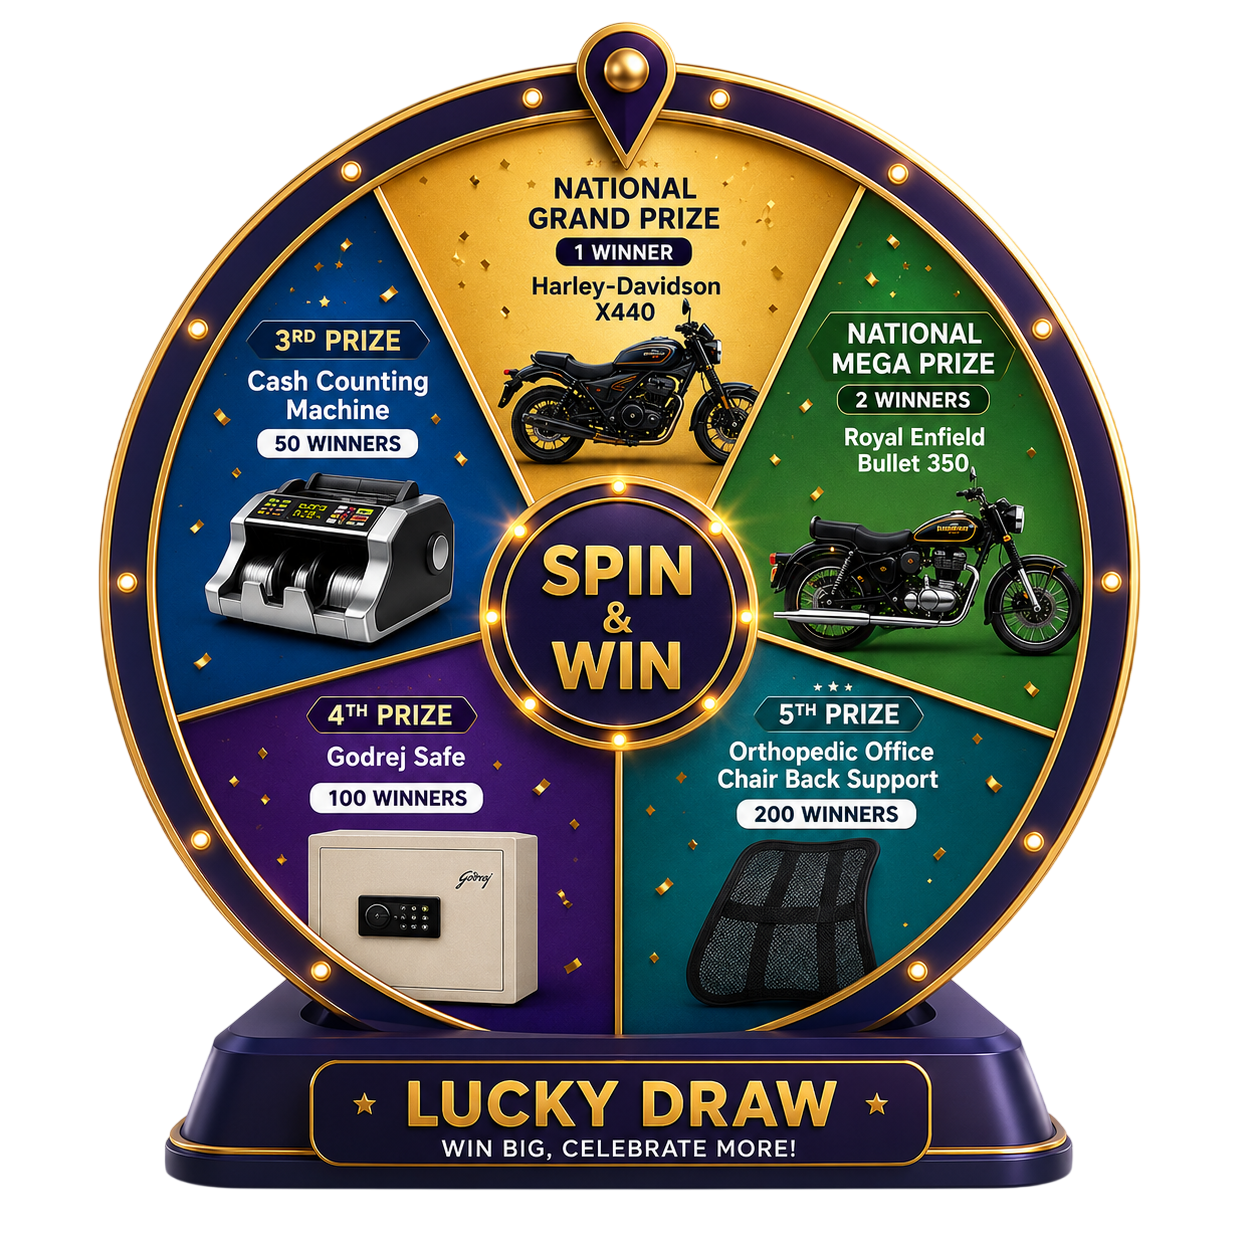
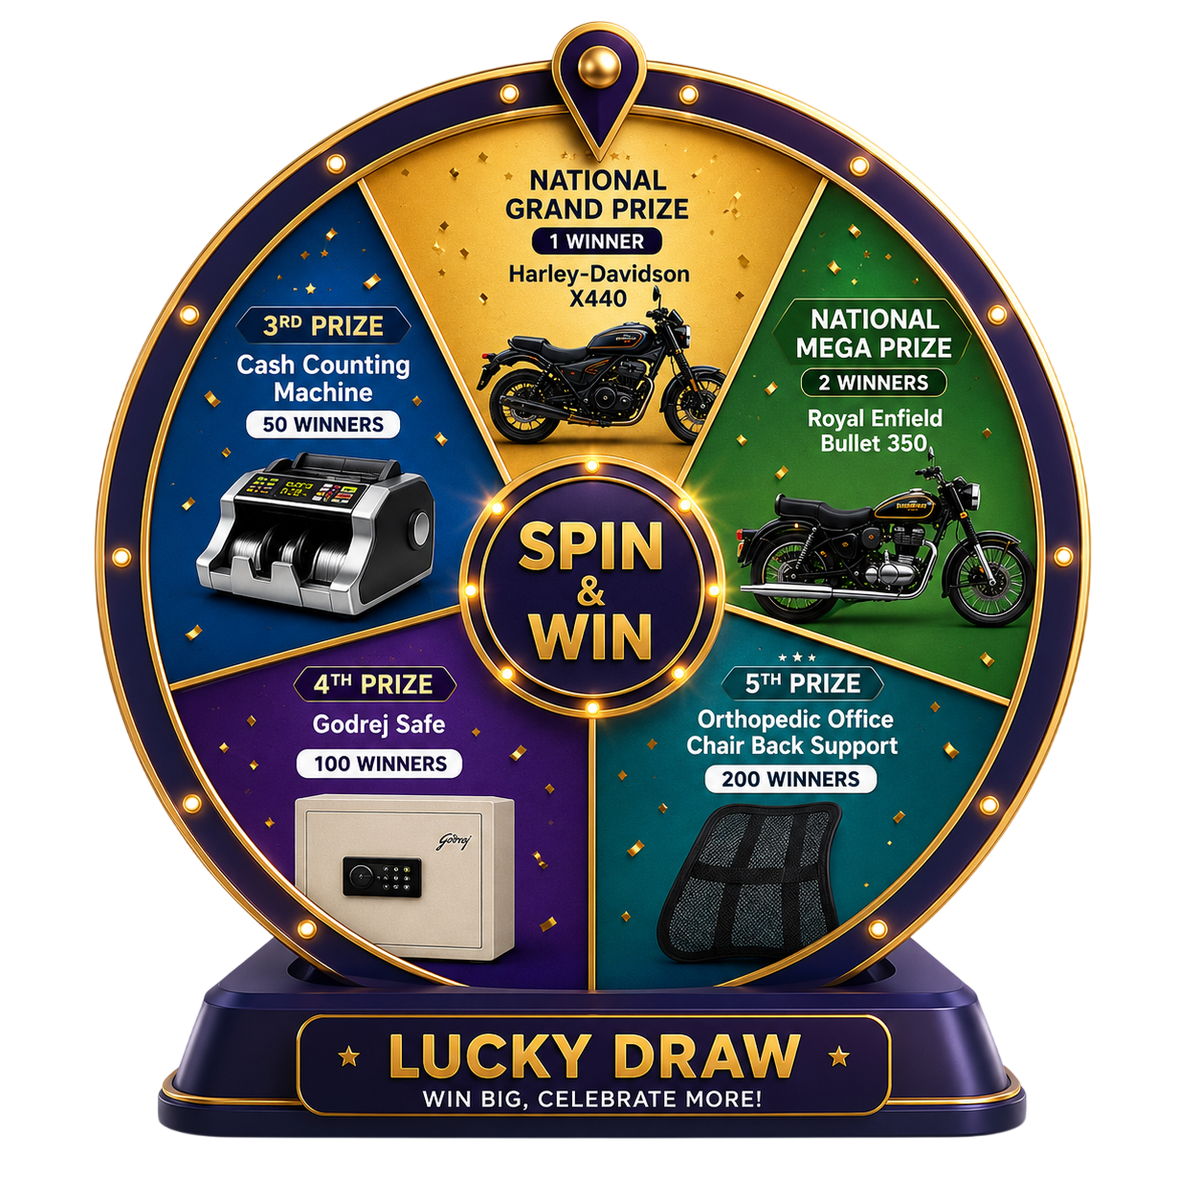
Add files via upload

diff --git a/js/audio.js b/js/audio.js
@@ -295,8 +295,8 @@ window.LuckyAudio = (function () {
   /* ══════════════ CONTROL WIDGET (bottom-right) ══════════════ */
   var css = document.createElement('style');
   css.textContent =
-    '#ld-audio-ctl{position:fixed;right:20px;bottom:20px;z-index:900;display:flex;flex-direction:row;align-items:center;gap:12px;' +
-      'padding:10px 16px;border-radius:30px;' +
+    '#ld-audio-ctl{position:fixed;right:20px;bottom:20px;z-index:900;display:flex;flex-direction:column;align-items:center;gap:10px;' +
+      'padding:14px 10px;border-radius:40px;' +
       'background:linear-gradient(160deg,rgba(34,40,86,.88),rgba(17,24,56,.94));' +
       'border:1.5px solid rgba(255,215,0,.45);backdrop-filter:blur(14px);' +
       'box-shadow:0 6px 24px rgba(0,0,0,.6),0 0 18px rgba(255,215,0,.18),inset 0 1px 0 rgba(255,255,255,.15);}' +
@@ -305,8 +305,10 @@ window.LuckyAudio = (function () {
       'box-shadow:0 3px 12px rgba(255,215,0,.5);transition:transform .2s,box-shadow .2s;}' +
     '#ld-play:hover{transform:scale(1.1);box-shadow:0 4px 18px rgba(255,215,0,.8);}' +
     '#ld-play svg{width:16px;height:16px;fill:#020A1A;}' +
+    '#ld-vol-wrap{position:relative;width:20px;height:90px;display:flex;justify-content:center;align-items:center;}' +
     '#ld-vol{-webkit-appearance:none;appearance:none;width:80px;height:6px;border-radius:4px;outline:none;cursor:pointer;' +
-      'background:linear-gradient(90deg,#FFD700 var(--p,60%),rgba(255,215,0,.2) var(--p,60%));}' +
+      'background:linear-gradient(90deg,#FFD700 var(--p,60%),rgba(255,215,0,.2) var(--p,60%));' +
+      'transform:rotate(-90deg);position:absolute;}' +
     '#ld-vol::-webkit-slider-thumb{-webkit-appearance:none;width:15px;height:15px;border-radius:50%;' +
       'background:radial-gradient(circle at 35% 35%,#FFF3C0,#FFD700 45%,#B8860B);' +
       'box-shadow:0 0 8px rgba(255,210,0,.8);cursor:pointer;}' +
@@ -314,7 +316,7 @@ window.LuckyAudio = (function () {
       'background:radial-gradient(circle at 35% 35%,#FFF3C0,#FFD700 45%,#B8860B);box-shadow:0 0 8px rgba(255,210,0,.8);cursor:pointer;}' +
     '#ld-audio-ctl .ld-ico{display:flex;align-items:center;justify-content:center;width:18px;height:18px;}' +
     '#ld-audio-ctl .ld-ico svg{width:18px;height:18px;fill:rgba(255,215,0,0.9);filter:drop-shadow(0 0 4px rgba(255,215,0,0.5));}' +
-    '@media (max-width:560px){#ld-audio-ctl{right:8px;bottom:8px;padding:8px 12px;}#ld-vol{width:60px;}}';
+    '@media (max-width:560px){#ld-audio-ctl{right:8px;bottom:8px;padding:12px 8px;}#ld-vol-wrap{height:70px;}#ld-vol{width:60px;}}';
   document.head.appendChild(css);
 
   var SVG_PLAY  = '<svg viewBox="0 0 24 24"><path d="M8 5v14l11-7z"/></svg>';
@@ -326,9 +328,9 @@ window.LuckyAudio = (function () {
   wrap.id = 'ld-audio-ctl';
   wrap.innerHTML =
     '<button id="ld-play" title="Play / pause music"></button>' +
-    '<div class="ld-ico" title="Volume Down">' + SVG_VOL_DOWN + '</div>' +
-    '<input id="ld-vol" type="range" min="0" max="100" step="1" title="Volume">' +
-    '<div class="ld-ico" title="Volume Up">' + SVG_VOL_UP + '</div>';
+    '<div class="ld-ico" title="Volume Up" style="margin-top:4px;">' + SVG_VOL_UP + '</div>' +
+    '<div id="ld-vol-wrap"><input id="ld-vol" type="range" min="0" max="100" step="1" title="Volume"></div>' +
+    '<div class="ld-ico" title="Volume Down" style="margin-bottom:4px;">' + SVG_VOL_DOWN + '</div>';
   function mount() { document.body.appendChild(wrap); init(); }
   if (document.body) mount(); else document.addEventListener('DOMContentLoaded', mount);
 

diff --git a/index.html b/index.html
@@ -498,6 +498,11 @@ html, body {
 }
 
 </style>
+<!-- PRELOAD CRITICAL ASSETS FOR PERFORMANCE -->
+<link rel="preload" href="assets/audio/bg_music.mp3" as="audio">
+<link rel="preload" href="assets/images/main_banner.png" as="image">
+<link rel="preload" href="assets/images/Spin_this_wheel_transparent.gif" as="image">
+<link rel="preload" href="assets/images/granulam_podium.png" as="image">
 </head>
 <body>
 
@@ -657,7 +662,7 @@ html, body {
   </div><!-- end .content -->
 </section>
 
-<script src="js/audio.js?v=2"></script>
+<script src="js/audio.js?v=3"></script>
 <script>
 (function(){
   const layer = document.getElementById('fx');

diff --git a/prize.html b/prize.html
@@ -168,6 +168,9 @@ html,body{width:100%;height:100%;overflow:hidden;font-family:'Nunito',sans-serif
 .nav-btn:hover:not(:disabled){background:rgba(212,160,23,.15);border-color:rgba(212,160,23,.65);color:var(--gold-lt);transform:translateY(-2px) scale(1.05);box-shadow:0 6px 20px rgba(212,160,23,.22);}
 .nav-btn:disabled{opacity:.2;cursor:not-allowed;}
 </style>
+<!-- PRELOAD CRITICAL ASSETS FOR PERFORMANCE -->
+<link rel="preload" href="assets/audio/bg_music.mp3" as="audio">
+<link rel="preload" href="assets/audio/applause.mp3" as="audio">
 </head>
 <body>
 
@@ -254,7 +257,7 @@ html,body{width:100%;height:100%;overflow:hidden;font-family:'Nunito',sans-serif
   </div>
 </div>
 
-<script src="js/audio.js?v=2"></script>
+<script src="js/audio.js?v=3"></script>
 <script>
 /* ══ PRIZE CONFIG ══ */
 const prizes={

diff --git a/tools/fix_audio_vertical.py b/tools/fix_audio_vertical.py
@@ -1,0 +1,54 @@
+import os
+import re
+
+filepath = '/Users/ankush/Desktop/Sumil Lucky Draw/js/audio.js'
+with open(filepath, 'r') as f:
+    content = f.read()
+
+# Replace the UI block
+ui_pattern = re.compile(r"var css = document\.createElement\('style'\);.*?<div class=\"ld-ico\" title=\"Volume Up\">' \+ SVG_VOL_UP \+ '</div>';", re.DOTALL)
+
+new_ui = """var css = document.createElement('style');
+  css.textContent =
+    '#ld-audio-ctl{position:fixed;right:20px;bottom:20px;z-index:900;display:flex;flex-direction:column;align-items:center;gap:10px;' +
+      'padding:14px 10px;border-radius:40px;' +
+      'background:linear-gradient(160deg,rgba(34,40,86,.88),rgba(17,24,56,.94));' +
+      'border:1.5px solid rgba(255,215,0,.45);backdrop-filter:blur(14px);' +
+      'box-shadow:0 6px 24px rgba(0,0,0,.6),0 0 18px rgba(255,215,0,.18),inset 0 1px 0 rgba(255,255,255,.15);}' +
+    '#ld-play{width:36px;height:36px;border-radius:50%;border:none;cursor:pointer;flex-shrink:0;' +
+      'background:linear-gradient(135deg,#FFD700,#FFF4CC);display:flex;align-items:center;justify-content:center;' +
+      'box-shadow:0 3px 12px rgba(255,215,0,.5);transition:transform .2s,box-shadow .2s;}' +
+    '#ld-play:hover{transform:scale(1.1);box-shadow:0 4px 18px rgba(255,215,0,.8);}' +
+    '#ld-play svg{width:16px;height:16px;fill:#020A1A;}' +
+    '#ld-vol-wrap{position:relative;width:20px;height:90px;display:flex;justify-content:center;align-items:center;}' +
+    '#ld-vol{-webkit-appearance:none;appearance:none;width:80px;height:6px;border-radius:4px;outline:none;cursor:pointer;' +
+      'background:linear-gradient(90deg,#FFD700 var(--p,60%),rgba(255,215,0,.2) var(--p,60%));' +
+      'transform:rotate(-90deg);position:absolute;}' +
+    '#ld-vol::-webkit-slider-thumb{-webkit-appearance:none;width:15px;height:15px;border-radius:50%;' +
+      'background:radial-gradient(circle at 35% 35%,#FFF3C0,#FFD700 45%,#B8860B);' +
+      'box-shadow:0 0 8px rgba(255,210,0,.8);cursor:pointer;}' +
+    '#ld-vol::-moz-range-thumb{width:15px;height:15px;border:none;border-radius:50%;' +
+      'background:radial-gradient(circle at 35% 35%,#FFF3C0,#FFD700 45%,#B8860B);box-shadow:0 0 8px rgba(255,210,0,.8);cursor:pointer;}' +
+    '#ld-audio-ctl .ld-ico{display:flex;align-items:center;justify-content:center;width:18px;height:18px;}' +
+    '#ld-audio-ctl .ld-ico svg{width:18px;height:18px;fill:rgba(255,215,0,0.9);filter:drop-shadow(0 0 4px rgba(255,215,0,0.5));}' +
+    '@media (max-width:560px){#ld-audio-ctl{right:8px;bottom:8px;padding:12px 8px;}#ld-vol-wrap{height:70px;}#ld-vol{width:60px;}}';
+  document.head.appendChild(css);
+
+  var SVG_PLAY  = '<svg viewBox="0 0 24 24"><path d="M8 5v14l11-7z"/></svg>';
+  var SVG_PAUSE = '<svg viewBox="0 0 24 24"><path d="M6 5h4v14H6zM14 5h4v14h-4z"/></svg>';
+  var SVG_VOL_DOWN = '<svg viewBox="0 0 24 24"><path d="M18.5 12c0-1.77-1.02-3.29-2.5-4.03v8.05c1.48-.73 2.5-2.25 2.5-4.02zM5 9v6h4l5 5V4L9 9H5z"/></svg>';
+  var SVG_VOL_UP = '<svg viewBox="0 0 24 24"><path d="M3 9v6h4l5 5V4L7 9H3zm13.5 3c0-1.77-1.02-3.29-2.5-4.03v8.05c1.48-.73 2.5-2.25 2.5-4.02zM14 3.23v2.06c2.89.86 5 3.54 5 6.71s-2.11 5.85-5 6.71v2.06c4.01-.91 7-4.49 7-8.77s-2.99-7.86-7-8.77z"/></svg>';
+
+  var wrap = document.createElement('div');
+  wrap.id = 'ld-audio-ctl';
+  wrap.innerHTML =
+    '<button id="ld-play" title="Play / pause music"></button>' +
+    '<div class="ld-ico" title="Volume Up" style="margin-top:4px;">' + SVG_VOL_UP + '</div>' +
+    '<div id="ld-vol-wrap"><input id="ld-vol" type="range" min="0" max="100" step="1" title="Volume"></div>' +
+    '<div class="ld-ico" title="Volume Down" style="margin-bottom:4px;">' + SVG_VOL_DOWN + '</div>';"""
+
+content = ui_pattern.sub(new_ui, content)
+
+with open(filepath, 'w') as f:
+    f.write(content)
+print("Updated js/audio.js successfully (Vertical UI).")

diff --git a/tools/optimize_images.py b/tools/optimize_images.py
@@ -1,0 +1,33 @@
+import os
+from PIL import Image
+
+def optimize_images(directory):
+    for root, _, files in os.walk(directory):
+        for file in files:
+            if file.lower().endswith('.png'):
+                file_path = os.path.join(root, file)
+                original_size = os.path.getsize(file_path)
+                
+                # Only bother if the file is > 500KB
+                if original_size > 500 * 1024:
+                    try:
+                        with Image.open(file_path) as img:
+                            # Calculate new dimensions (max width/height 1200)
+                            max_dim = 1200
+                            if img.width > max_dim or img.height > max_dim:
+                                ratio = min(max_dim / img.width, max_dim / img.height)
+                                new_size = (int(img.width * ratio), int(img.height * ratio))
+                                img = img.resize(new_size, Image.Resampling.LANCZOS)
+                            
+                            # Save back with optimization
+                            img.save(file_path, 'PNG', optimize=True, compress_level=9)
+                            
+                        new_size = os.path.getsize(file_path)
+                        print(f"Optimized {file}: {original_size // 1024}KB -> {new_size // 1024}KB")
+                    except Exception as e:
+                        print(f"Error optimizing {file}: {e}")
+
+if __name__ == "__main__":
+    optimize_images('/Users/ankush/Desktop/Sumil Lucky Draw/assets/images')
+    optimize_images('/Users/ankush/Desktop/Sumil Lucky Draw/assets/prizes')
+    print("Done!")